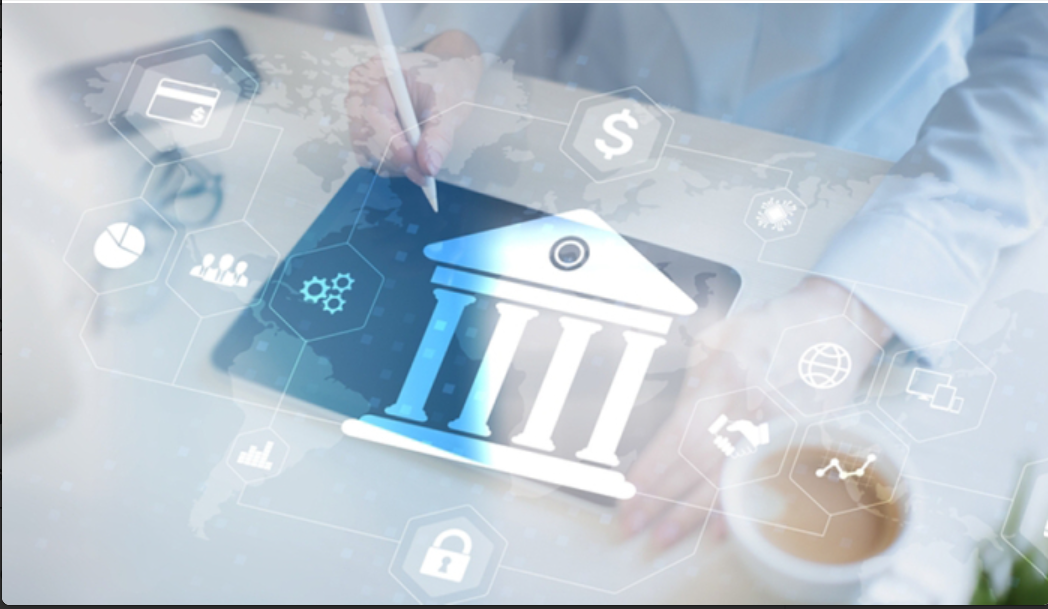
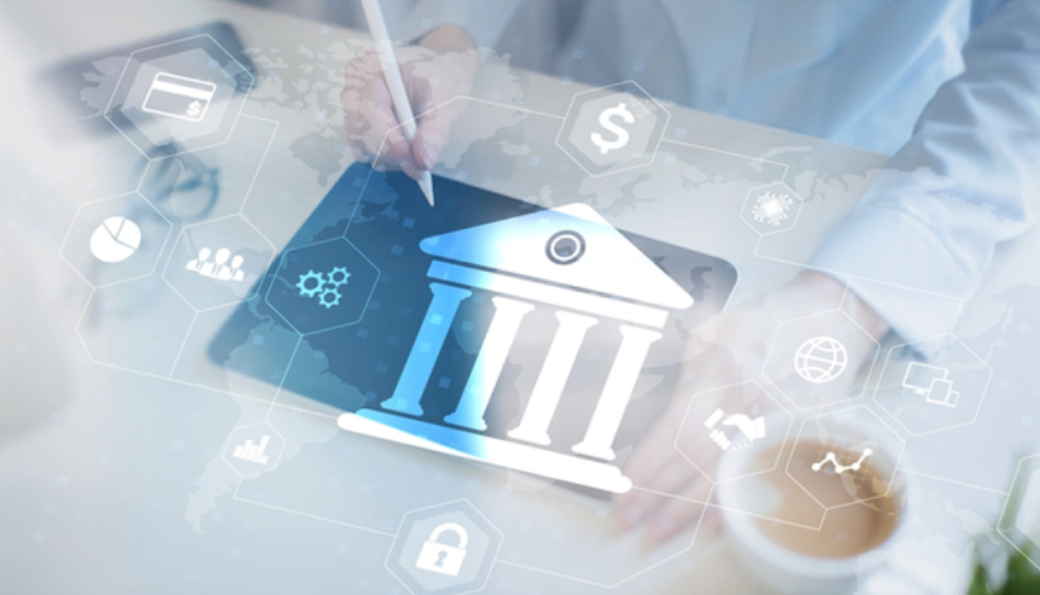
Updated Dex Image

diff --git a/src/pages/CustomerCharter.jsx b/src/pages/CustomerCharter.jsx
@@ -55,7 +55,7 @@ function CustomerCharter() {
         <div className="text-4xl font-semibold">Customer Service Charter</div>
         <div className="text-xl font-semibold">
           Our commitment to delivering outstanding service to every customer
-        </div>
+        </div>shad
       </div>
 
       <div
@@ -147,7 +147,7 @@ function CustomerCharter() {
                         financial systems by unlocking liquidity in traditionally
                         illiquid assets and empowering individuals and
                         institutions to participate in modern capital markets
-                        through our SACCO, Money Market Fund and Digital Exchange
+                        through Digital Exchange
                         platforms.
                       </p>
                     </div>
@@ -178,23 +178,23 @@ function CustomerCharter() {
                       </p>
                       <ul>
                         <li>
-                          Enable seamless access to investment and credit
+                          1. Enable seamless access to investment and credit
                           opportunities
                         </li>
                         <li>
-                          Digitize and tokenize real-world assets, starting with
+                          2. Digitize and tokenize real-world assets, starting with
                           mortgages and fixed income instruments
                         </li>
                         <li>
-                          Deliver secure, compliant, and user-friendly financial
+                          3. Deliver secure, compliant, and user-friendly financial
                           solutions
                         </li>
                         <li>
-                          Provide financial inclusion by lowering barriers to
+                          4. Provide financial inclusion by lowering barriers to
                           entry for individuals and institutions
                         </li>
                         <li>
-                          Partner with regulators, financial institutions, and
+                          5. Partner with regulators, financial institutions, and
                           technology providers to build a resilient financial
                           ecosystem
                         </li>

diff --git a/src/pages/Home.jsx b/src/pages/Home.jsx
@@ -50,7 +50,10 @@ export default function Home() {
               <span className="text-ayedos-green">Catalysing Commerce</span>
             </h1>
             <p className="text-lg sm:text-xl text-white/85 leading-relaxed mb-10 max-w-xl">
-              Welcome to AYEDOS COWRIE, innovative financial solutions. Cowrie,
+              Welcome to AYEDOS COWRIE, innovative financial solutions. <span className="text-ayedos-green font-semibold">
+                Cowrie
+                </span>
+                ,
               the ancient symbol of fertility, prosperity, a store of value, and
               a means of exchange.
             </p>
@@ -394,7 +397,7 @@ export default function Home() {
               <ImagePlaceholder
                 height="400px"
                 label="Cowrie Special Investment Fund Preview"
-                className="shadow-xl"
+                className="shadow-none"
                 src="/images/06.jpg"
               />
             </div>
@@ -428,7 +431,7 @@ export default function Home() {
               {[...partners, ...partners].map((partner, index) => (
                 <div
                   key={`${partner.name}-${index}`}
-                  className="h-28 w-52 shrink-0 bg-white border border-ayedos-bluegray/10 rounded-xl px-5 py-6 flex items-center justify-center shadow-sm hover:shadow-md transition-all duration-300"
+                  className=" h-28 w-52 shrink-0 bg-white border border-ayedos-bluegray/10 rounded-xl px-5 py-6 flex items-center justify-center shadow-sm hover:shadow-md transition-all duration-300"
                   data-aos="fade-up"
                   data-aos-delay={(index % partners.length) * 75}
                 >
@@ -436,7 +439,7 @@ export default function Home() {
                     <img
                       src={partner.logo}
                       alt={`${partner.name} logo`}
-                      className="max-h-14 max-w-full object-contain"
+                      className="max-h-14 max-w-full object-contain mb-1"
                     />
                   ) : (
                     <span className="text-center text-sm font-bold leading-snug text-ayedos-bluegray">

diff --git a/src/pages/DEX.jsx b/src/pages/DEX.jsx
@@ -40,7 +40,7 @@ const supplierJourney = [
   },
   {
     step: '06',
-    title: 'KES Settlement',
+    title: 'Settlement',
     description: 'Dex settles the receivable in KES through regulated financial institutions.',
     icon: <HiOfficeBuilding size={20} />,
   },
@@ -170,7 +170,7 @@ function JourneyTimeline({ title, eyebrow, description, items, accent = 'green',
 
   return (
     <div data-aos="fade-up" data-aos-delay={delay}>
-      <div className={`${accentClasses.header} rounded-xl p-6 shadow-lg shadow-ayedos-charcoal/10`}>
+      <div className={`${accentClasses.header} rounded-xl p-6   shadow-ayedos-charcoal/10`}>
         <div className={`inline-flex items-center px-3 py-1 rounded-full border text-xs font-semibold mb-5 ${accentClasses.eyebrow}`}>
           {eyebrow}
         </div>
@@ -257,7 +257,7 @@ export default function DEX() {
               <img
                 src="/images/dex1.png"
                 alt="DEX Digital Exchange Platform"
-                className="w-full h-auto rounded-xl shadow-lg"
+                className="w-full h-auto rounded-xl  "
               />
             </div>
           </div>
@@ -308,7 +308,7 @@ export default function DEX() {
             {dexPathways.map((pathway, index) => (
               <div
                 key={pathway.title}
-                className="bg-white border border-ayedos-light rounded-xl p-6 sm:p-8 shadow-sm transition-all duration-300 hover:shadow-xl hover:-translate-y-1"
+                className="bg-white border border-ayedos-light rounded-xl p-6 sm:p-8   transition-all duration-300 hover:shadow-xl hover:-translate-y-1"
                 data-aos="fade-up"
                 data-aos-delay={index * 100}
               >
